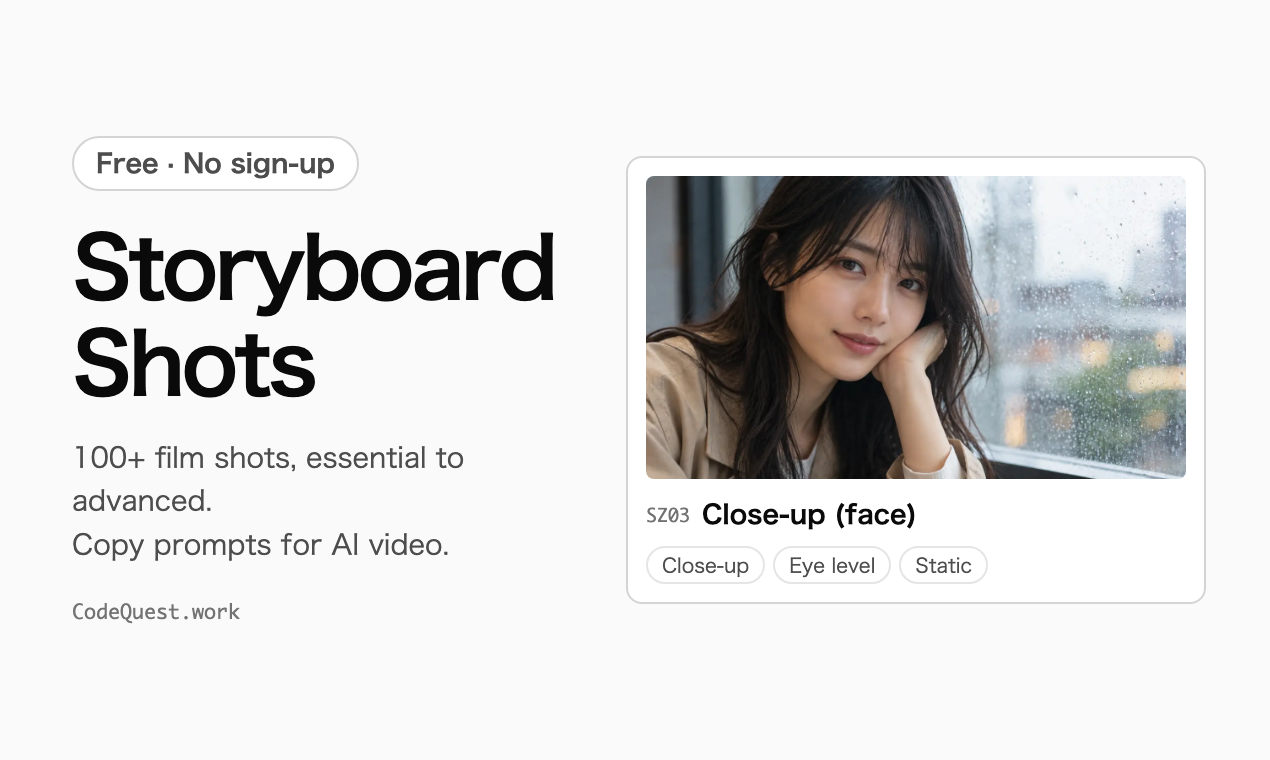
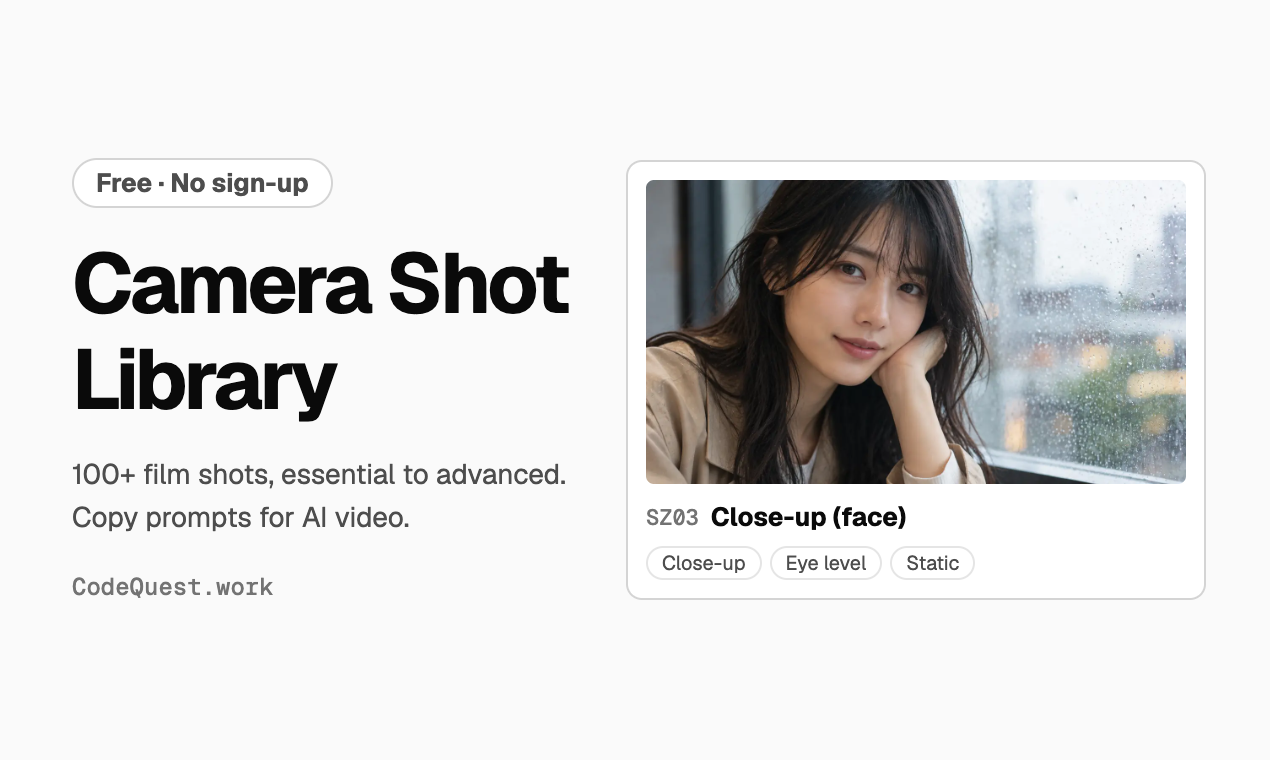
chore(storyboard-shots): Product Hunt・tsukutta 用の画像を新しいツール名で作り直す

diff --git a/_src/storyboard-shots/producthunt/hero.html b/_src/storyboard-shots/producthunt/hero.html
@@ -23,7 +23,7 @@
 <body>
   <div class="left">
     <span class="badge">Free · No sign-up</span>
-    <h1>Storyboard<br>Shots</h1>
+    <h1>Camera Shot<br>Library</h1>
     <p>100+ film shots, essential to advanced.<br>Copy prompts for AI video.</p>
     <div class="site">CodeQuest.work</div>
   </div>
